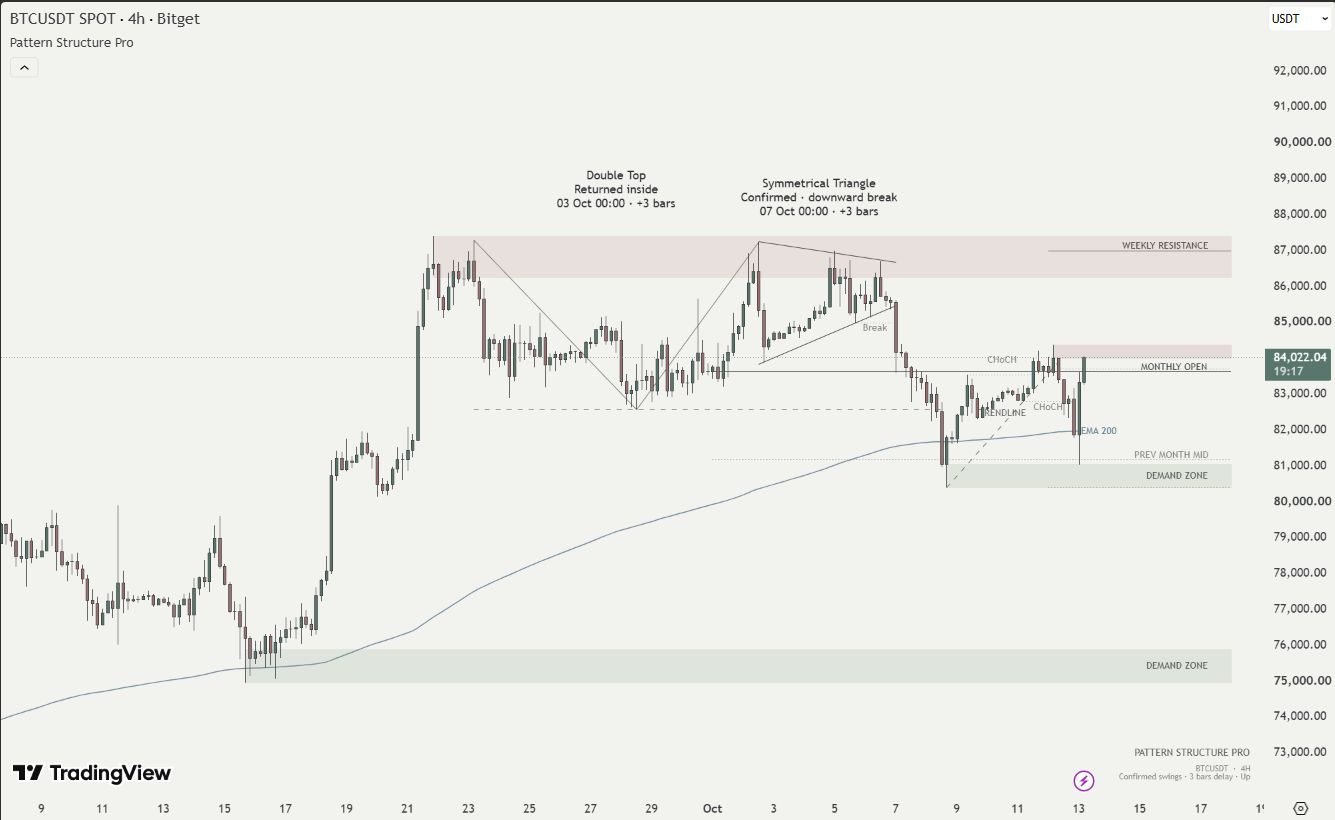
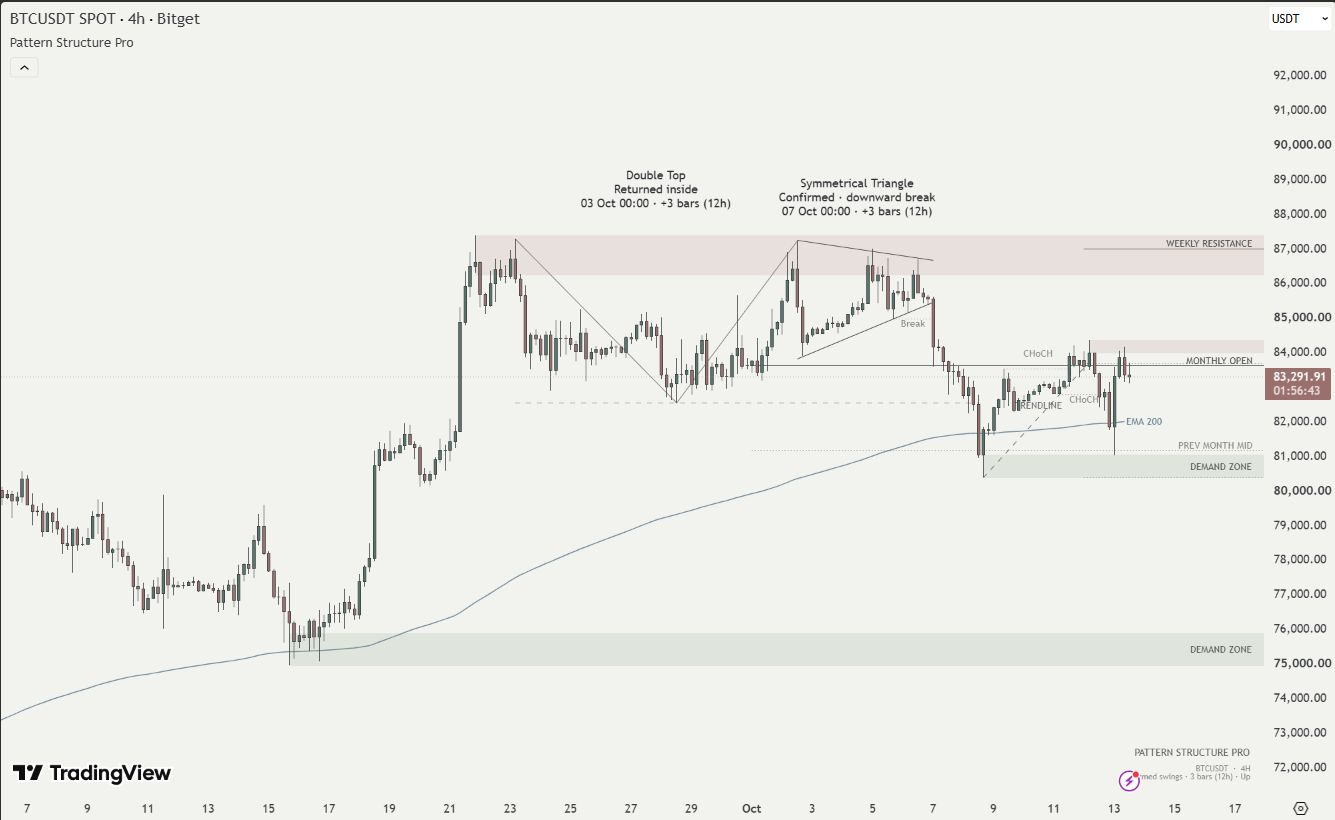
Support 1H, 2H, 4H, and Daily chart context

diff --git a/README.md b/README.md
@@ -1,6 +1,6 @@
 # Pattern Structure Pro (PSP)
 
-Pattern Structure Pro is a TradingView Pine Script v6 indicator that brings chart patterns, swing structure, and price context into one considered layout. It is designed around standard 4H candlestick charts, with a clean **Stories** view for sharing analysis and a more detailed **Analysis** view for examining it.
+Pattern Structure Pro is a TradingView Pine Script v6 indicator that brings chart patterns, swing structure, and price context into one considered layout. It supports standard **1H, 2H, 4H, and 1D** candlestick charts, with a clean **Stories** view for sharing analysis and a more detailed **Analysis** view for examining it.
 
 ## Overview
 
@@ -22,7 +22,16 @@ There are no BUY/SELL calls, projected price paths, entries, stops, targets, or 
 
 ### Reference points and detection
 
-The engine uses confirmed pivot highs and lows with equal left- and right-hand strength. With the default strength of **3**, a swing requires three later candles to close—at least **12 hours on 4H**. Ambiguous candles that qualify as both a high and a low are skipped. Consecutive same-side swings retain the more extreme point, producing an alternating swing sequence. ATR(14) supplies the price scale for tolerances.
+The engine uses confirmed pivot highs and lows with equal left- and right-hand strength. With the default strength of **3**, a swing requires three later candles to close. Ambiguous candles that qualify as both a high and a low are skipped. Consecutive same-side swings retain the more extreme point, producing an alternating swing sequence. ATR(14) supplies the price scale for tolerances on the current chart interval.
+
+| Chart interval | Default swing confirmation | ATR and EMA inputs |
+| --- | --- | --- |
+| 1H | 3 closed bars / 3 hours | 1H candles |
+| 2H | 3 closed bars / 6 hours | 2H candles |
+| 4H | 3 closed bars / 12 hours | 4H candles |
+| 1D | 3 closed bars / 3 trading days | Daily candles |
+
+Switching the chart interval automatically recalculates the entire engine on that interval. Geometry windows, expiry, and confirmation are measured in **bars**, while price tolerances use that interval's ATR; they are not forced into a fixed 4H wall-clock duration. The 4H detection thresholds are preserved. Analysis captions show both the bar delay and its interval duration. For markets with session gaps, three daily bars can take longer than three calendar days.
 
 Reversal candidates compare three or five anchors for matching extremes, adequate intervening depth, prior price context, and—for head and shoulders—head prominence and shoulder timing. Double Top/Bottom detection also searches across minor intervening swings while rejecting an overtopping extreme or a separate central third contact.
 
@@ -54,7 +63,7 @@ PSP redraws the current selection rather than retaining every historical drawing
 
 ## Screenshots
 
-Both images were captured on **13 October 2026**, directly in TradingView through the **Codex browser**, using the unchanged production source on BITGET:BTCUSDT 4H. Browser screenshot clipping removes surrounding panels and toolbars; candles, price axes, labels, and drawings are unchanged. No patterns were manually added, and no outdated images are included.
+The images were captured on **13 October 2026**, directly in TradingView through the **Codex browser**, using the production source on BITGET:BTCUSDT. Browser screenshot clipping removes surrounding panels and toolbars; candles, price axes, labels, and drawings are unchanged. No patterns were manually added.
 
 ### Stories
 
@@ -68,9 +77,15 @@ Compact pattern names and proportionate historical arches keep the structure rea
 
 The same market window in Analysis view shows anchor geometry, a Double Top marked Returned inside, and a symmetrical triangle marked Confirmed · downward break. Captions include detection time and a three-bar swing delay. The two modes can select different candidates from the same detection engine because their presentation priorities differ.
 
+### Other supported intervals
+
+[1H Analysis](assets/screenshots/psp-1h-analysis.jpg) · [2H Analysis](assets/screenshots/psp-2h-analysis.jpg) · [1D Analysis](assets/screenshots/psp-1d-analysis.jpg)
+
+These capture the same engine recalculated on each chart interval. A current window can legitimately have no selected pattern; the structure, zones, levels, and EMA still provide context. Confirmation timing is 3h, 6h, 12h, or 3d at the default swing strength. Live checks confirm runtime and rendering on the observed windows, not broad pattern-recognition accuracy across every historical period.
+
 ## Installation
 
-1. Open a standard candlestick chart in TradingView and select **4H**.
+1. Open a standard candlestick chart in TradingView and select **1H, 2H, 4H, or 1D**.
 2. Open [`src/PatternStructurePro.pine`](src/PatternStructurePro.pine) and copy the entire file.
 3. Open TradingView's **Pine Editor**, create a new indicator, and replace its template with the copied source.
 4. Save the script privately and select **Add to chart**.
@@ -80,7 +95,7 @@ For clean exports, close the editor and side panels, move the pointer outside th
 
 ## Settings
 
-### Detection · 4H
+### Detection
 
 | Input | Default | Controls |
 | --- | --- | --- |
